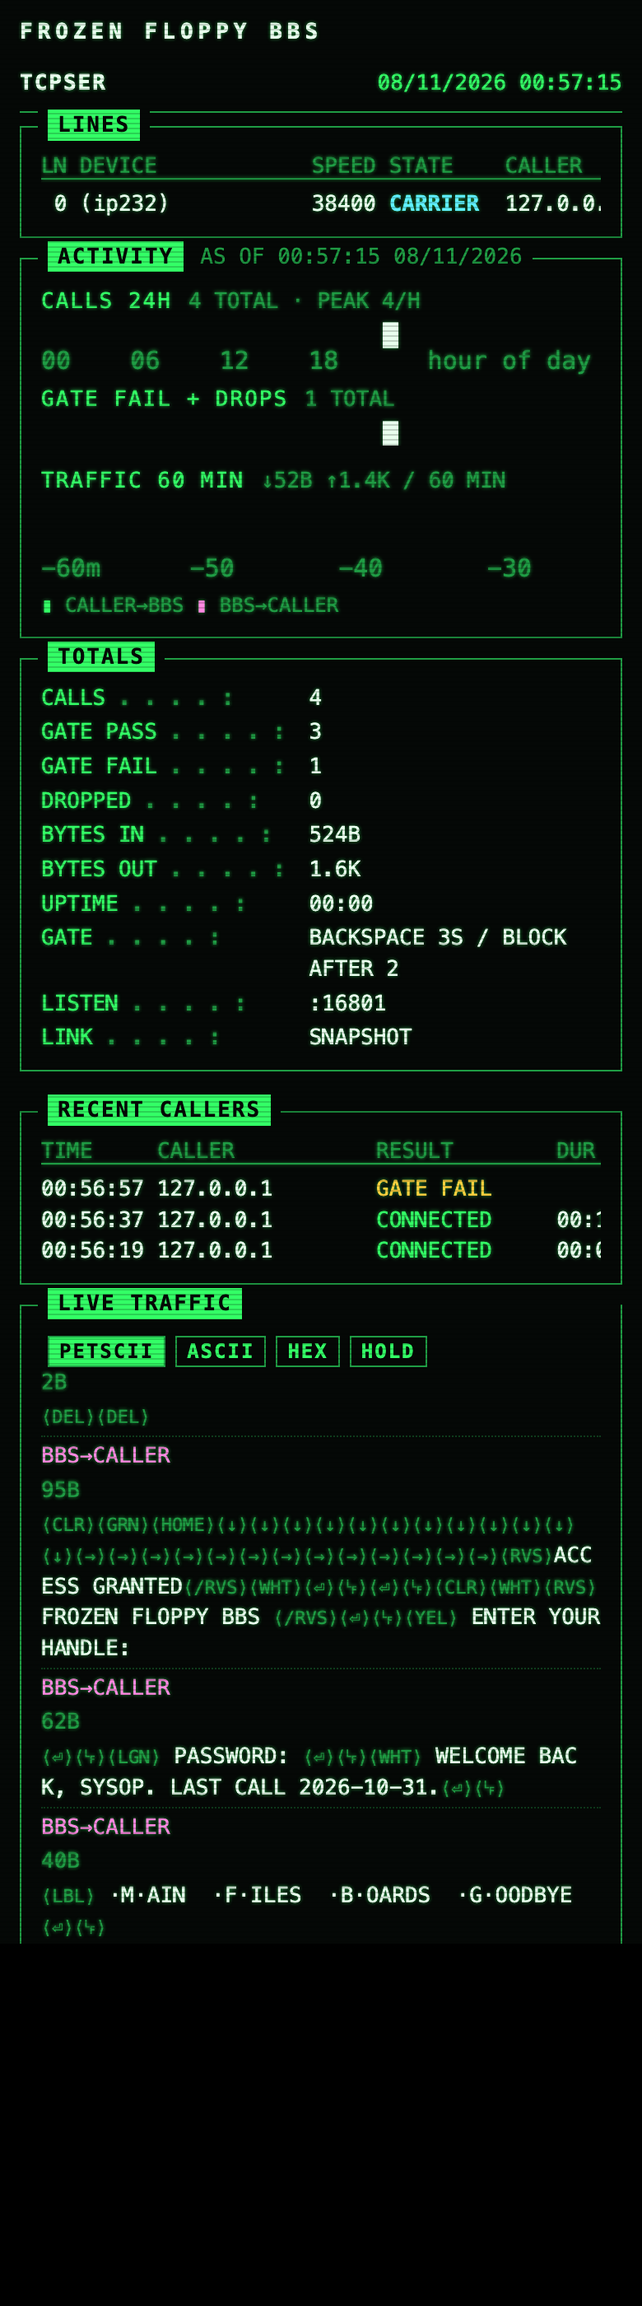
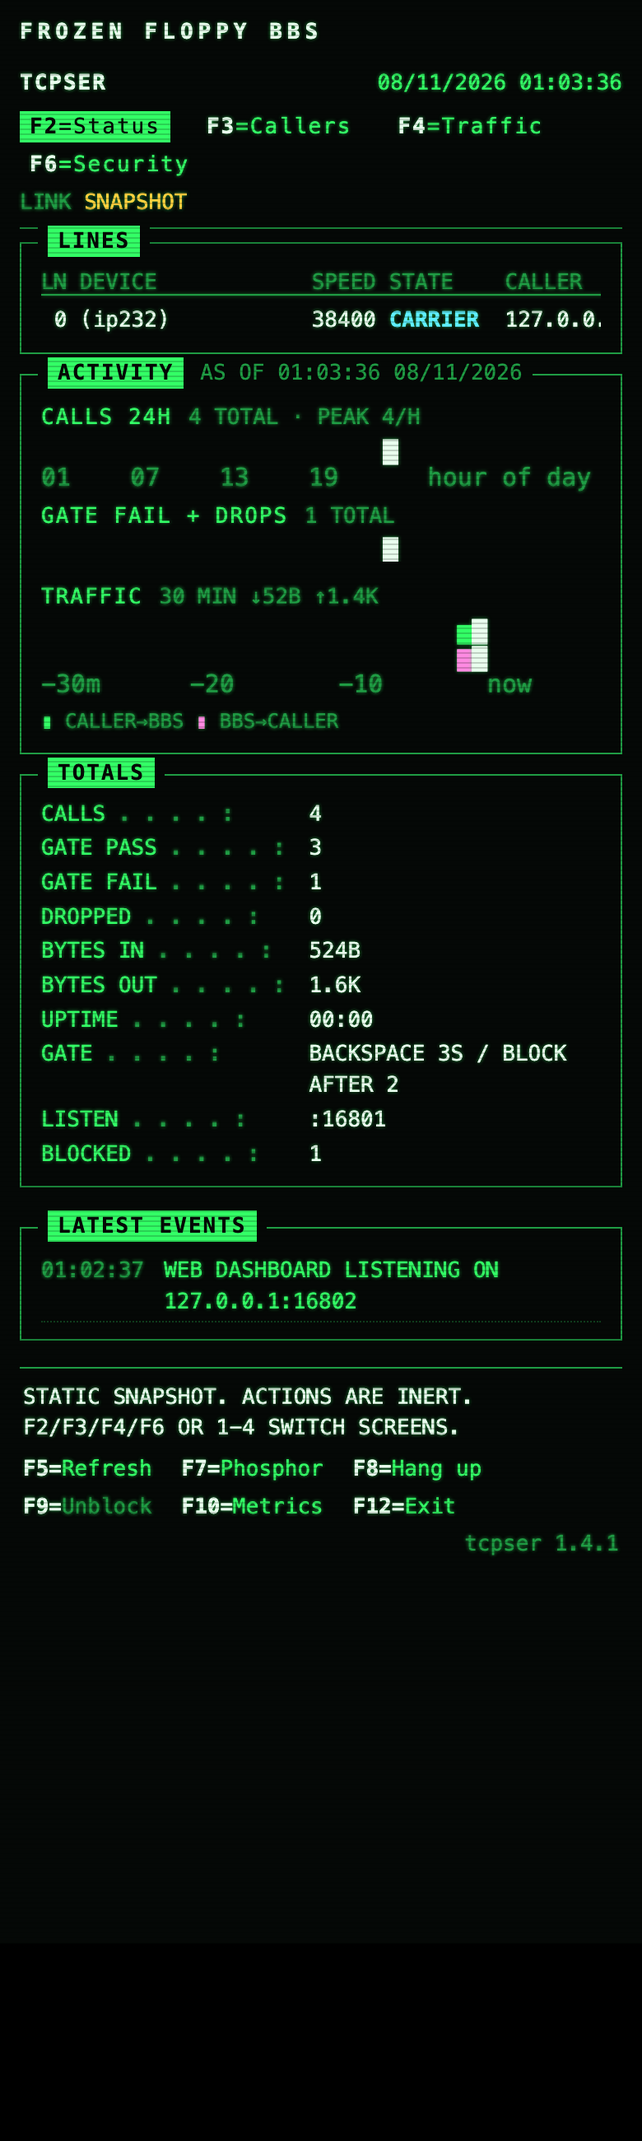
Web console: F-key screens (Status / Callers / Traffic / Security); test fix
- The console is split into four screens selected like a terminal menu:
  F2 Status (lines, activity charts, totals, latest events), F3 Callers,
  F4 Traffic, F6 Security (blocklist, events, gate settings). Keys 1-4 work
  as well; the last screen is remembered per browser. F12 exits (was F3).
  Only the visible screen is re-rendered on each update. Narrow screens get
  a 30-minute traffic window so the block chart fits the grid.
- tests: the password-gate test placed its second failed attempt inside
  tcpser's 5 s per-IP rate limit, so it was dropped before the gate and the
  block never triggered (flaky). Attempts are now spaced out and the test
  asserts the failures were registered. `make check` now exits non-zero on
  a failing suite instead of hiding it behind a pipe.
- docs/img: per-screen captures (web-status/callers/traffic/security) and a
  phone capture; README web section updated; CHANGES.

diff --git a/src/web/app.js b/src/web/app.js
@@ -3,6 +3,7 @@
  *   GET  /api/events            SSE "status" events (same JSON)
  *   POST /api/line/<n>/hangup   hang up the caller on line n   (X-Requested-With: tcpser)
  *   POST /api/unblock           clear timed blocks
+ * Screens: F2 status, F3 callers, F4 traffic, F6 security (also keys 1-4).
  * Everything caller-derived is rendered with textContent, never innerHTML. */
 (function () {
   "use strict";
@@ -13,17 +14,29 @@
     return h ? `${h}:${String(m).padStart(2, "0")}:${String(x).padStart(2, "0")}` : `${String(m).padStart(2, "0")}:${String(x).padStart(2, "0")}`; };
   const fmtUp = (s) => { const d = (s / 86400) | 0, h = ((s % 86400) / 3600) | 0, m = ((s % 3600) / 60) | 0; return (d ? d + "D " : "") + String(h).padStart(2, "0") + ":" + String(m).padStart(2, "0"); };
   const timeOf = (iso) => { const d = new Date(iso); return isNaN(d) ? "--:--:--" : d.toLocaleTimeString([], { hour: "2-digit", minute: "2-digit", second: "2-digit", hour12: false }); };
+  const dateOf = (iso) => { const d = new Date(iso); return isNaN(d) ? "" : d.toLocaleDateString(); };
   const BLOCKS = " ▁▂▃▄▅▆▇█";
+  const PAGES = ["status", "callers", "traffic", "security"];
+  const PAGE_KEYS = { F2: "status", F3: "callers", F4: "traffic", F6: "security", "1": "status", "2": "callers", "3": "traffic", "4": "security" };
 
-  let mode = "petscii", paused = false, lastData = null, frozen = null, pendingAsk = null, es = null;
+  let mode = "petscii", paused = false, lastData = null, frozen = null, pendingAsk = null, es = null, page = "status";
 
-  // ---- phosphor (per-browser preference) ---------------------------------
+  // ---- per-browser preferences (phosphor, screen) -------------------------
   const PHOS = ["green", "amber", "white"];
-  function setPhosphor(p, save) {
-    document.documentElement.setAttribute("data-phosphor", p);
-    if (save) { try { localStorage.setItem("tcpser.phosphor", p); } catch (e) { /* private window etc. */ } }
+  function pref(k, v) { try { if (v === undefined) return localStorage.getItem("tcpser." + k); localStorage.setItem("tcpser." + k, v); } catch (e) { return null; } return null; }
+  function setPhosphor(p, save) { document.documentElement.setAttribute("data-phosphor", p); if (save) pref("phosphor", p); }
+  { const p = pref("phosphor"); if (PHOS.includes(p)) setPhosphor(p, false); }
+
+  // ---- screens -----------------------------------------------------------
+  function showPage(p, save) {
+    if (!PAGES.includes(p)) return;
+    page = p;
+    document.querySelectorAll(".page").forEach((el) => { el.hidden = el.dataset.page !== p; });
+    document.querySelectorAll("#tabs button").forEach((b) => b.classList.toggle("on", b.dataset.page === p));
+    if (save) pref("page", p);
+    if (lastData) render(lastData);
   }
-  try { const p = localStorage.getItem("tcpser.phosphor"); if (PHOS.includes(p)) setPhosphor(p, false); } catch (e) { /* ignore */ }
+  document.querySelectorAll("#tabs button").forEach((b) => { b.onclick = () => { showPage(b.dataset.page, true); msg(""); }; });
 
   // ---- message line ------------------------------------------------------
   function msg(text, cls) { const m = $("msg"); m.textContent = text || ""; m.className = "msgline" + (cls ? " " + cls : ""); }
@@ -79,13 +92,15 @@
     const sumC = calls.reduce((a, b) => a + b, 0), sumF = fails.reduce((a, b) => a + b, 0), peak = Math.max(0, ...calls);
     $("calls-sum").textContent = `${sumC} TOTAL · PEAK ${peak}/H`;
     $("fail-sum").textContent = `${sumF} TOTAL`;
-    const mIn = s.min_in, mOut = s.min_out;
-    bars($("ch-in"), mIn, { label: (i) => (59 - i) + " min ago", fmt: fmtBytes });
-    bars($("ch-out"), mOut, { label: (i) => (59 - i) + " min ago", fmt: fmtBytes });
-    $("ax-min").textContent = "-60m      -50       -40       -30       -20       -10       now";
-    const tIn = mIn.reduce((a, b) => a + b, 0), tOut = mOut.reduce((a, b) => a + b, 0);
-    $("traf-sum").textContent = `↓${fmtBytes(tIn)} ↑${fmtBytes(tOut)} / 60 MIN`;
-    $("act-sub").textContent = "AS OF " + timeOf(d.now) + " " + new Date(d.now).toLocaleDateString();
+    // narrow screens get the last 30 minutes so the chart stays on the grid
+    const narrow = window.innerWidth < 700, win = narrow ? 30 : 60;
+    const mIn = s.min_in.slice(-win), mOut = s.min_out.slice(-win);
+    bars($("ch-in"), mIn, { label: (i) => (win - 1 - i) + " min ago", fmt: fmtBytes });
+    bars($("ch-out"), mOut, { label: (i) => (win - 1 - i) + " min ago", fmt: fmtBytes });
+    $("ax-min").textContent = narrow ? "-30m      -20       -10       now" : "-60m      -50       -40       -30       -20       -10       now";
+    const tIn = s.min_in.reduce((a, b) => a + b, 0), tOut = s.min_out.reduce((a, b) => a + b, 0);
+    $("traf-sum").textContent = `${win} MIN  ↓${fmtBytes(tIn)} ↑${fmtBytes(tOut)}`;
+    $("act-sub").textContent = "AS OF " + timeOf(d.now) + " " + dateOf(d.now);
   }
 
   // ---- records ------------------------------------------------------------
@@ -113,7 +128,7 @@
     const host = $("callers"); host.textContent = ""; $("callers-empty").hidden = hist.length > 0;
     hist.forEach((h) => {
       const pre = document.createElement("pre"); pre.className = "rec";
-      pre.append(pad(timeOf(h.time), 8) + " " + pad(h.ip, 16) + " ");
+      pre.append(pad(timeOf(h.time), 8) + " " + pad(dateOf(h.time), 10) + " " + pad(h.ip, 16) + " ");
       pre.append(span("res-" + h.result, pad(h.result.replace("_", " "), 13)));
       pre.append(" " + pad(h.duration ? fmtDur(h.duration) : "", 5, true) + " " + pad(h.bytes_in ? fmtBytes(h.bytes_in) : "", 6, true) + " " + pad(h.bytes_out ? fmtBytes(h.bytes_out) : "", 7, true));
       host.appendChild(pre);
@@ -135,10 +150,13 @@
     const ul = $("blocklist"); ul.textContent = ""; $("block-empty").hidden = bl.length > 0; $("block-count").textContent = bl.length ? String(bl.length) : "";
     $("fkeys").querySelector('[data-f="F9"]').disabled = !bl.some((b) => b.kind === "timed");
     bl.forEach((b) => { const li = document.createElement("li"); li.append(span("ip", b.ip), span("kind " + b.kind, b.kind === "permanent" ? "PERMANENT" : "TIMED, UNTIL " + timeOf(b.expires))); ul.appendChild(li); });
+    $("c-blocked").textContent = bl.length;
   }
   function renderEvents(ev) {
-    const ul = $("events"); ul.textContent = ""; $("events-empty").hidden = ev.length > 0;
-    ev.forEach((e) => { const li = document.createElement("li"); li.append(span("time num", timeOf(e.time)), span("", e.text.toUpperCase())); ul.appendChild(li); });
+    [["events", "events-empty", ev], ["events-short", "events-short-empty", ev.slice(0, 5)]].forEach(([id, emptyId, list]) => {
+      const ul = $(id); ul.textContent = ""; $(emptyId).hidden = list.length > 0;
+      list.forEach((e) => { const li = document.createElement("li"); li.append(span("time num", timeOf(e.time)), span("", e.text.toUpperCase())); ul.appendChild(li); });
+    });
   }
   function render(d) {
     lastData = d;
@@ -146,10 +164,15 @@
     $("version").textContent = d.version; $("uptime").textContent = fmtUp(d.uptime_s);
     $("c-conn").textContent = d.stats.total_connections; $("c-pass").textContent = d.stats.gate_pass; $("c-fail").textContent = d.stats.gate_fail;
     $("c-drop").textContent = d.stats.dropped; $("c-in").textContent = fmtBytes(d.stats.bytes_in); $("c-out").textContent = fmtBytes(d.stats.bytes_out);
-    $("gate").textContent = d.gate.mode.toUpperCase() + (d.gate.mode !== "off" ? ` ${d.gate.timeout}S / BLOCK AFTER ${d.gate.fails}` : "");
+    const gateText = d.gate.mode.toUpperCase() + (d.gate.mode !== "off" ? ` ${d.gate.timeout}S / BLOCK AFTER ${d.gate.fails}` : "");
+    $("gate").textContent = gateText; $("g-mode").textContent = d.gate.mode.toUpperCase(); $("g-timeout").textContent = d.gate.mode !== "off" ? d.gate.timeout + " S" : "-"; $("g-fails").textContent = d.gate.mode !== "off" ? d.gate.fails + " FAILURES" : "-";
     $("listen").textContent = ":" + d.listen_port;
-    $("clock").textContent = new Date(d.now).toLocaleDateString() + " " + timeOf(d.now);
-    renderLines(d.lines); renderCharts(d); renderCallers(d.history); renderTraffic(d); renderBlocklist(d.blocklist); renderEvents(d.events);
+    $("clock").textContent = dateOf(d.now) + " " + timeOf(d.now);
+    // render only what is on screen (plus the cheap bits), the rest on page switch
+    if (page === "status") { renderLines(d.lines); renderCharts(d); }
+    if (page === "callers") renderCallers(d.history);
+    if (page === "traffic") renderTraffic(d);
+    renderBlocklist(d.blocklist); renderEvents(d.events);
     $("fkeys").querySelector('[data-f="F8"]').disabled = !d.lines.some((l) => l.state === "connected");
   }
 
@@ -160,7 +183,8 @@
     if (window.__TCPSER_SNAPSHOT__) { if (lastData) render(lastData); return; }
     try { const r = await fetch("/api/status"); if (r.status === 401) { locked(true); return; } if (r.ok) { render(await r.json()); locked(false); } } catch (e) { /* down */ }
   }
-  if (window.__TCPSER_SNAPSHOT__) { render(window.__TCPSER_SNAPSHOT__); setLink("SNAPSHOT", "warn"); msg("STATIC SNAPSHOT. ACTIONS ARE INERT."); }
+  { const p = pref("page"); showPage(PAGES.includes(p) ? p : "status", false); }
+  if (window.__TCPSER_SNAPSHOT__) { render(window.__TCPSER_SNAPSHOT__); setLink("SNAPSHOT", "warn"); msg("STATIC SNAPSHOT. ACTIONS ARE INERT. F2/F3/F4/F6 OR 1-4 SWITCH SCREENS."); }
   else {
     const connect = () => {
       if (es) es.close();
@@ -182,18 +206,21 @@
 
   // ---- function keys -----------------------------------------------------
   function fkey(k) {
-    if (k === "F3") { ask("EXIT THE CONSOLE?", () => { document.getElementById("crt").textContent = ""; document.body.style.background = "#000"; }); return; }
+    if (PAGE_KEYS[k]) { showPage(PAGE_KEYS[k], true); msg(""); return; }
     if (k === "F5") { msg("REFRESHED"); refresh(); return; }
     if (k === "F7") { const cur = document.documentElement.getAttribute("data-phosphor") || "green"; const next = PHOS[(PHOS.indexOf(cur) + 1) % PHOS.length]; setPhosphor(next, true); msg("PHOSPHOR: " + next.toUpperCase()); return; }
     if (k === "F8") { const l = lastData && lastData.lines.find((x) => x.state === "connected"); if (!l) { msg("NO CALLER ONLINE", "err"); return; } ask(`HANG UP LINE ${l.id} (${l.peer})?`, () => act(`/api/line/${l.id}/hangup`, `LINE ${l.id} HUNG UP`)); return; }
     if (k === "F9") { if (!lastData || !lastData.blocklist.some((b) => b.kind === "timed")) { msg("NO TIMED BLOCKS", "err"); return; } ask("CLEAR ALL TIMED BLOCKS?", () => act("/api/unblock", "TIMED BLOCKS CLEARED")); return; }
-    if (k === "F10") { if (!window.__TCPSER_SNAPSHOT__) location.href = "/metrics"; else msg("SNAPSHOT: NO METRICS ENDPOINT", "err"); }
+    if (k === "F10") { if (!window.__TCPSER_SNAPSHOT__) location.href = "/metrics"; else msg("SNAPSHOT: NO METRICS ENDPOINT", "err"); return; }
+    if (k === "F12") { ask("EXIT THE CONSOLE?", () => { $("crt").textContent = ""; document.body.style.background = "#000"; }); }
   }
   document.querySelectorAll(".fkeys button").forEach((b) => { b.onclick = () => fkey(b.dataset.f); const t = b.textContent.split("="); b.textContent = ""; const k = document.createElement("b"); k.textContent = t[0] + "="; b.append(k, t[1] || ""); });
   document.addEventListener("keydown", (e) => {
+    if (e.target && /^(INPUT|TEXTAREA)$/.test(e.target.tagName)) return;
     if (pendingAsk !== null) { if (e.key === "y" || e.key === "Y") { e.preventDefault(); answer(true); } else if (e.key === "n" || e.key === "N" || e.key === "Escape") { e.preventDefault(); answer(false); } return; }
-    if (/^F(3|5|7|8|9|10)$/.test(e.key)) { e.preventDefault(); fkey(e.key); }
+    if (PAGE_KEYS[e.key] || /^F(5|7|8|9|10|12)$/.test(e.key)) { e.preventDefault(); fkey(e.key); }
   });
   document.querySelectorAll(".opt[data-mode]").forEach((b) => b.onclick = () => { mode = b.dataset.mode; document.querySelectorAll(".opt[data-mode]").forEach((x) => x.classList.toggle("on", x === b)); if (lastData) renderTraffic(lastData); });
   $("pause").onclick = () => { paused = !paused; frozen = paused && lastData ? lastData.traffic : null; $("pause").setAttribute("aria-pressed", String(paused)); $("pause").textContent = paused ? "RELEASE" : "HOLD"; msg(paused ? "TRAFFIC FEED ON HOLD" : ""); if (lastData) renderTraffic(lastData); };
+  window.addEventListener("resize", () => { if (lastData && page === "status") renderCharts(lastData); });
 })();

diff --git a/src/web/index.html b/src/web/index.html
@@ -15,16 +15,24 @@
   <span class="ttl" id="bbs-name">TCPSER CONSOLE</span>
   <span class="clk num" id="clock">--/--/-- --:--:--</span>
 </header>
+<!-- screens, selected with function keys (or 1-4) like a terminal menu -->
+<nav class="tabs" id="tabs" aria-label="Screens">
+  <button type="button" data-page="status" data-key="F2"><b>F2</b>=Status</button>
+  <button type="button" data-page="callers" data-key="F3"><b>F3</b>=Callers</button>
+  <button type="button" data-page="traffic" data-key="F4"><b>F4</b>=Traffic</button>
+  <button type="button" data-page="security" data-key="F6"><b>F6</b>=Security</button>
+  <span class="link dim">LINK <span id="live-text">connecting</span></span>
+</nav>
 <div class="rule" aria-hidden="true"></div>
 
-<!-- LINES: a fixed-column record list, the way a 5250 subfile looks -->
+<!-- ===================== F2 STATUS ===================== -->
+<div class="page" data-page="status">
 <section class="scr" aria-labelledby="t-lines">
   <h2 class="scrt" id="t-lines"><span class="hi">LINES</span></h2>
   <div class="cols"><pre class="rec hdr" aria-hidden="true">LN DEVICE            SPEED STATE    CALLER           DUR      IN     OUT  DCD DTR</pre>
   <div id="lines"></div></div>
 </section>
 
-<!-- ACTIVITY: block-glyph charts aligned to the character grid -->
 <section class="scr" aria-labelledby="t-act">
   <h2 class="scrt" id="t-act"><span class="hi">ACTIVITY</span> <span class="dim" id="act-sub"></span></h2>
   <div class="charts">
@@ -36,7 +44,7 @@
       <pre class="bars bad" id="ch-fail" aria-label="gate failures and drops per hour"></pre>
     </div>
     <div class="chart">
-      <div class="chl"><span class="lbl">TRAFFIC 60 MIN</span> <span class="dim num" id="traf-sum"></span></div>
+      <div class="chl"><span class="lbl">TRAFFIC</span> <span class="dim num" id="traf-sum"></span></div>
       <pre class="bars" id="ch-in" aria-label="bytes from callers per minute"></pre>
       <pre class="bars out" id="ch-out" aria-label="bytes to callers per minute"></pre>
       <pre class="axis" id="ax-min" aria-hidden="true"></pre>
@@ -46,7 +54,6 @@
 </section>
 
 <div class="two">
-  <!-- TOTALS as a label/value column -->
   <section class="scr" aria-labelledby="t-tot">
     <h2 class="scrt" id="t-tot"><span class="hi">TOTALS</span></h2>
     <dl class="kv">
@@ -59,21 +66,30 @@
       <dt>UPTIME</dt><dd class="num" id="uptime">-</dd>
       <dt>GATE</dt><dd id="gate">-</dd>
       <dt>LISTEN</dt><dd class="num" id="listen">-</dd>
-      <dt>LINK</dt><dd id="live-text">connecting</dd>
+      <dt>BLOCKED</dt><dd class="num" id="c-blocked">-</dd>
     </dl>
   </section>
-
-  <!-- RECENT CALLERS subfile -->
-  <section class="scr" aria-labelledby="t-call">
-    <h2 class="scrt" id="t-call"><span class="hi">RECENT CALLERS</span></h2>
-    <div class="cols"><pre class="rec hdr" aria-hidden="true">TIME     CALLER           RESULT        DUR     IN      OUT</pre>
-    <div id="callers"></div>
-    <p class="empty" id="callers-empty">NO CALLS YET</p></div>
+  <section class="scr" aria-labelledby="t-evt0">
+    <h2 class="scrt" id="t-evt0"><span class="hi">LATEST EVENTS</span></h2>
+    <ul class="list" id="events-short"></ul>
+    <p class="empty" id="events-short-empty">NOTHING YET</p>
   </section>
 </div>
+</div>
 
-<!-- LIVE TRAFFIC -->
-<section class="scr" aria-labelledby="t-traf">
+<!-- ===================== F3 CALLERS ===================== -->
+<div class="page" data-page="callers" hidden>
+<section class="scr tall" aria-labelledby="t-call">
+  <h2 class="scrt" id="t-call"><span class="hi">RECENT CALLERS</span> <span class="dim">NEWEST FIRST</span></h2>
+  <div class="cols"><pre class="rec hdr" aria-hidden="true">TIME     DATE       CALLER           RESULT        DUR     IN      OUT</pre>
+  <div id="callers"></div>
+  <p class="empty" id="callers-empty">NO CALLS YET</p></div>
+</section>
+</div>
+
+<!-- ===================== F4 TRAFFIC ===================== -->
+<div class="page" data-page="traffic" hidden>
+<section class="scr tall" aria-labelledby="t-traf">
   <h2 class="scrt" id="t-traf"><span class="hi">LIVE TRAFFIC</span>
     <span class="opts" role="group" aria-label="traffic view">
       <button class="opt on" data-mode="petscii" type="button">PETSCII</button>
@@ -86,18 +102,31 @@
   <ol class="feed" id="feed"></ol>
   <p class="empty" id="feed-empty">NO TRAFFIC YET</p>
 </section>
+</div>
 
+<!-- ===================== F6 SECURITY ===================== -->
+<div class="page" data-page="security" hidden>
 <div class="two">
   <section class="scr" aria-labelledby="t-blk">
     <h2 class="scrt" id="t-blk"><span class="hi">BLOCKLIST</span> <span class="dim num" id="block-count"></span></h2>
-    <ul class="list" id="blocklist"></ul>
+    <ul class="list tall" id="blocklist"></ul>
     <p class="empty" id="block-empty">NOTHING BLOCKED</p>
   </section>
   <section class="scr" aria-labelledby="t-evt">
     <h2 class="scrt" id="t-evt"><span class="hi">EVENTS</span></h2>
-    <ul class="list" id="events"></ul>
+    <ul class="list tall" id="events"></ul>
     <p class="empty" id="events-empty">NOTHING YET</p>
   </section>
+</div>
+<section class="scr" aria-labelledby="t-gate">
+  <h2 class="scrt" id="t-gate"><span class="hi">GATE</span></h2>
+  <dl class="kv">
+    <dt>MODE</dt><dd id="g-mode">-</dd>
+    <dt>TIMEOUT</dt><dd class="num" id="g-timeout">-</dd>
+    <dt>BLOCK AFTER</dt><dd class="num" id="g-fails">-</dd>
+    <dt>RATE LIMIT</dt><dd>1 ATTEMPT / 5 S PER IP</dd>
+  </dl>
+</section>
 </div>
 
 <section class="scr locked" id="locked" hidden>
@@ -109,12 +138,12 @@
 <div class="rule" aria-hidden="true"></div>
 <div class="msgline" id="msg" role="status" aria-live="polite"></div>
 <footer class="fkeys" id="fkeys">
-  <button type="button" data-f="F3">F3=Exit</button>
   <button type="button" data-f="F5">F5=Refresh</button>
   <button type="button" data-f="F7">F7=Phosphor</button>
   <button type="button" data-f="F8">F8=Hang up</button>
   <button type="button" data-f="F9">F9=Unblock</button>
   <button type="button" data-f="F10">F10=Metrics</button>
+  <button type="button" data-f="F12">F12=Exit</button>
   <span class="ver dim">tcpser <span id="version">-</span></span>
 </footer>
 </div>

diff --git a/src/web/style.css b/src/web/style.css
@@ -53,6 +53,19 @@ button { font: inherit; }
 .sysline .clk { text-align: right; color: var(--fg); }
 .rule { height: 0; border-top: 1px solid var(--rule); margin: 4px 0 8px; }
 
+/* screen tabs: a menu line, the active screen in reverse video */
+.tabs { display: flex; flex-wrap: wrap; gap: 4px 16px; align-items: baseline; padding: 4px 0 2px; }
+.tabs button { background: transparent; border: 0; color: var(--fg); padding: 0 6px; cursor: pointer; text-shadow: inherit; letter-spacing: 1px; }
+.tabs button b { color: var(--fg-hi); font-weight: 700; }
+.tabs button.on { background: var(--rev-bg); color: var(--rev-fg); text-shadow: none; }
+.tabs button.on b { color: var(--rev-fg); }
+.tabs button:hover:not(.on), .tabs button:focus-visible { color: var(--fg-hi); outline: none; text-decoration: underline; }
+.tabs .link { margin-left: auto; }
+.tabs .link #live-text.ok { color: var(--ok); } .tabs .link #live-text.warn { color: var(--warn); }
+.page[hidden] { display: none; }
+.scr.tall .feed, .scr.tall .cols { max-height: calc(100vh - 260px); overflow: auto; }
+.list.tall { max-height: calc(100vh - 360px); }
+
 /* a screen panel: rule with the title set into it, reverse video */
 .scr { position: relative; border: 1px solid var(--rule); padding: 14px 12px 10px; margin: 0 0 12px; min-width: 0; }
 .scrt { position: absolute; top: -11px; left: 10px; margin: 0; font-size: 13px; font-weight: 700; letter-spacing: 1px; background: var(--bg); padding: 0 6px; display: flex; gap: 10px; align-items: center; flex-wrap: wrap; text-shadow: none; }
@@ -100,7 +113,7 @@ button { font: inherit; }
 .scrt .opts { display: flex; gap: 6px; }
 .opt { background: transparent; color: var(--fg); border: 1px solid var(--rule); padding: 0 6px; font-size: 12px; letter-spacing: 1px; cursor: pointer; text-shadow: none; }
 .opt.on, .opt[aria-pressed="true"] { background: var(--rev-bg); color: var(--rev-fg); }
-.feed { list-style: none; margin: 0; padding: 0; max-height: 340px; overflow: auto; }
+.feed { list-style: none; margin: 0; padding: 0; overflow: auto; }
 .feed li { display: grid; grid-template-columns: 11ch 5ch 1fr; gap: 8px; padding: 2px 0; border-bottom: 1px dotted rgba(31,156,68,.35); align-items: baseline; }
 .feed .dir { color: var(--fg-dim); white-space: nowrap; }
 .feed .dir.in { color: var(--cyan); } .feed .dir.out { color: var(--pink); }
@@ -133,7 +146,8 @@ a { color: var(--cyan); }
 @media (max-width: 860px) {
   .two, .charts { grid-template-columns: 1fr; }
   .sysline { grid-template-columns: 1fr auto; } .sysline .ttl { grid-column: 1 / -1; order: -1; text-align: left; }
-  .feed, .list { max-height: none; }
+  .feed, .list, .list.tall, .scr.tall .feed, .scr.tall .cols { max-height: none; }
+  .tabs .link { margin-left: 0; flex-basis: 100%; }
 }
 @media (max-width: 480px) {
   body { font-size: 13px; }

diff --git a/tests/run_tests.py b/tests/run_tests.py
@@ -219,7 +219,9 @@ def t_pw_gate():
     srv = Server("-k", "secret", "-F", "2", "-W", "5", "-I")
     try:
         v = srv.vice()
-        # two failed connections (one wrong guess each -> gate fails after guesses/timeout)
+        # two failed connections; tcpser also rate-limits one IP to one attempt per
+        # 5 s, so space them out or the second one is dropped BEFORE the gate and
+        # does not count as a gate failure.
         for _ in range(2):
             c = srv.caller()
             rd(c, 0.5)
@@ -231,8 +233,9 @@ def t_pw_gate():
                 time.sleep(0.15)
             rd(c, 1.0)
             c.close()
-            time.sleep(0.3)
+            time.sleep(5.5)
         assert b"RING" not in rd(v, 0.5), "RING without a correct password"
+        assert b"Pre-connect gate failed" in srv.logtext(), "gate failures were not registered"
         # third connection: should be blocked (closed without a prompt)
         c = srv.caller()
         r = rd(c, 1.5)
@@ -243,6 +246,7 @@ def t_pw_gate():
     finally:
         srv.stop()
     # fresh server: correct password passes
+    time.sleep(0.5)
     srv = Server("-k", "secret", "-I")
     try:
         v = srv.vice()

diff --git a/README.md b/README.md
@@ -165,10 +165,11 @@ fixed-column line list (carrier, caller, duration, bytes, DCD/DTR), activity
 charts drawn in block characters (calls and gate failures per hour for 24 h,
 bytes in and out per minute for 60 min), totals, recent callers, a live
 traffic feed with PETSCII / ASCII / hex views, the blocklist and system
-events, updated every 2 s over Server-Sent Events. Function keys work on the
-keyboard: F5 refresh, F7 phosphor (green / amber / white), F8 hang up, F9
-clear timed blocks, with Y/N confirmation on the message line. Name it with
-`TCPSER_DASH_NAME="My BBS"`.
+events, updated every 2 s over Server-Sent Events. Four screens, like a
+terminal menu: F2 Status, F3 Callers, F4 Traffic, F6 Security (keys 1–4 work
+too). Function keys: F5 refresh, F7 phosphor (green / amber / white), F8 hang
+up, F9 clear timed blocks, F12 exit, with Y/N confirmation on the message
+line. Name it with `TCPSER_DASH_NAME="My BBS"`.
 
 | Endpoint | Returns |
 |----------|---------|
@@ -189,7 +190,10 @@ in `src/web/` and is embedded into the binary at build time.
   <img src="docs/img/terminal-dashboard.png" alt="tcpser terminal dashboard: link status, statistics, hex traffic and connection history" width="900">
 </p>
 <p align="center">
-  <img src="docs/img/web-dashboard-mobile.png" alt="the web dashboard on a phone" width="300">
+  <img src="docs/img/web-traffic.png" alt="web console, Traffic screen: live PETSCII traffic feed" width="900">
+</p>
+<p align="center">
+  <img src="docs/img/web-dashboard-mobile.png" alt="the web console on a phone" width="300">
 </p>
 
 ---
